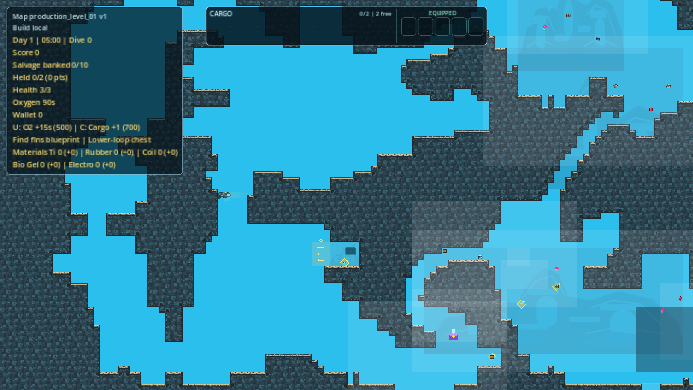
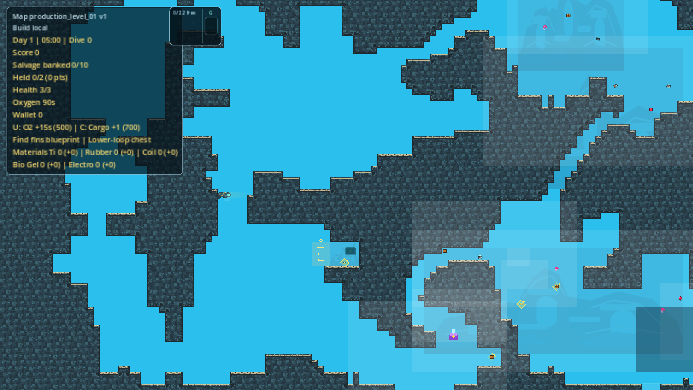
Accept Expansion 16 hold correction visuals

Changed region(s): [[0.2424, 0.0, 0.7273, 0.1231]]

diff --git a/docs/current/OCEANGAME_EXPANSION_16_HOLD_CORRECTION_VISUAL_REVIEW.md b/docs/current/OCEANGAME_EXPANSION_16_HOLD_CORRECTION_VISUAL_REVIEW.md
@@ -1,0 +1,82 @@
+# Expansion 16 Owner-HOLD Correction Visual Review
+
+Date: 2026-07-28
+
+Issue: #1145
+
+Runtime source: `4902b8e1218b1a50d107154548664a6d833bc28b`
+
+Status: Focused visual review and integrated release validation PASS.
+
+## Decision
+
+Accepted the corrected 14-image `production_level_01` baseline as one
+coherent desktop/mobile set. The accepted differences are limited to the
+source-authored far-west route/threshold guidance from #1143 and the bounded
+passive-gear presentation from #1144.
+
+No production-slice 01-04 baseline changed. Focused Expansion 16 captures
+remain review evidence and were not promoted into `visual_baselines/`.
+
+## Intentional Differences
+
+- Four cyan relay beacons and one amber oxygen-pressure threshold make the
+  existing far-west wreck route readable without changing terrain.
+- The status surface names the broad destination and, at the threshold, shows
+  either `Confined wreck air | Oxygen x8` or `Rebreather active`.
+- Desktop replaces the fixed `EQUIPPED` row with a fixed five-cell `GEAR`
+  surface. Contextually active gear moves first and additional owned gear uses
+  one `+N` overflow cell.
+- The closed-circuit rebreather has a named icon and visible active treatment
+  while it normalizes the confined-wreck oxygen zone.
+- Landscape mobile uses one compact active-gear summary instead of squeezing
+  the desktop row into the top band.
+
+Scanner, Cutter, and Shock Prod remain in the bottom active-tool hotbar. Cargo
+counts, capacity, and banking presentation do not change.
+
+## Focused Evidence
+
+`visual_captures/expansion_16_deeper_wreck/` shows route guidance,
+pre-rebreather warning, protected rebreather state, recorder cutting, and
+recorder scanning at 1280x720 and 844x390. The compact mobile summary remains
+above the play field and clear of the bottom hotbar and touch controls.
+
+The focused PNGs remain ignored review output. No `.import` sidecars or
+generated cache files were accepted.
+
+## Stable Areas
+
+Before acceptance, full-level differences were confined to the attributed
+guidance and HUD regions. Terrain, collision-facing edges, camera framing,
+player, boat, active-tool hotbar, existing landmarks, and unrelated props
+remained stable.
+
+All four production-slice review sheets were black before acceptance. After
+accepting `production_level_01`, all five configured review sheets have black
+difference panels. `check-clean --all-slices` confirms every accepted
+directory contains only expected baseline files.
+
+## Verification
+
+```powershell
+& 'C:\Program Files\Godot\Godot_v4.7-stable_win64.exe\Godot_v4.7-stable_win64_console.exe' --path . --capture-expansion-16-deeper-wreck
+& 'C:\Program Files\Godot\Godot_v4.7-stable_win64.exe\Godot_v4.7-stable_win64_console.exe' --path . --capture-expansion-09-full-level
+python tools/manage_production_slice_baseline.py compare-all
+python tools/manage_production_slice_baseline.py --slice production_level_01 accept
+python tools/manage_production_slice_baseline.py compare-all
+python tools/manage_production_slice_baseline.py check-clean --all-slices
+python tools/run_release_candidate_validation.py --require-godot
+python tools/check_file_lengths.py
+git diff --check
+```
+
+The release-candidate suite passed source/schema validation, progression
+audit, map parity, baseline hygiene, Godot import/startup, core runtime smokes,
+and every integrated journey through Expansion 16.
+
+## Next Gate
+
+#1146 must verify the exact merged correction SHA in the public Web preview.
+#1133 and milestone #42 remain open for owner GO/HOLD. This visual PASS does
+not select Expansion 17; #52/#53 remain deferred optional slice-03 polish.

diff --git a/docs/current/OCEANGAME_EXPANSION_16_VISUAL_BASELINE_DECISION.md b/docs/current/OCEANGAME_EXPANSION_16_VISUAL_BASELINE_DECISION.md
@@ -6,6 +6,9 @@ Issue: #1131 `Review and accept intentional Expansion 16 visual differences`
 
 Runtime source: `edc4f71abb9226d5d601a0f32573efb5a4936727`
 
+Owner-HOLD correction: superseded for current baseline state by
+`docs/current/OCEANGAME_EXPANSION_16_HOLD_CORRECTION_VISUAL_REVIEW.md`.
+
 ## Decision
 
 **Accepted** the current 14-image `production_level_01` baseline as one
